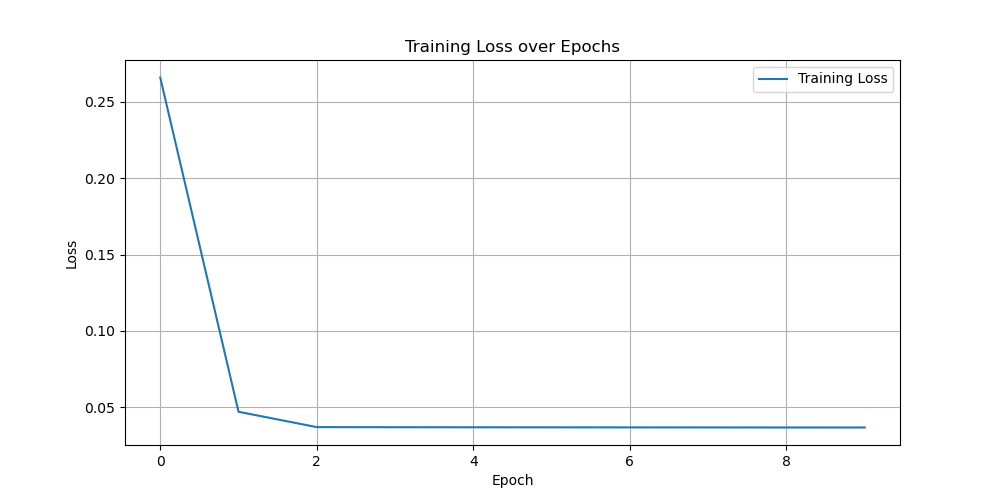
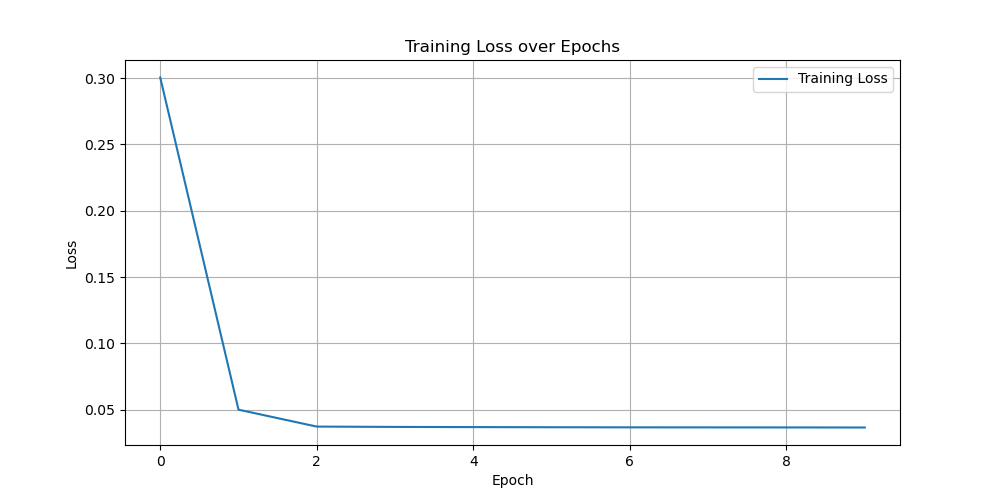
训练和预测分离，并输出权重文件

diff --git a/src/predict.py b/src/predict.py
@@ -1,35 +1,30 @@
 import torch
 from datetime import datetime, timedelta
-from src.data.data_loader import load_data, get_data_loader
+from src.data.data_loader import load_data
 from src.model.attention_lstm import AttentionLSTM
-from src.train.train import train_model
-from src.visualization.visualize import plot_training_loss, plot_prediction
+from src.visualization.visualize import plot_prediction
 from src.config import config
-
 
 def main():
     device = torch.device('cuda' if torch.cuda.is_available() else 'cpu')
     print(f'Using device: {device}')
 
     dataset = load_data(config['file_path'], config['sequence_length'])
-    dataloader = get_data_loader(dataset, config['batch_size'])
 
     model = AttentionLSTM(config['input_size'], config['hidden_size'], config['output_size'], config['num_layers'])
     model.to(device)
 
-    losses = train_model(model, dataloader, config['num_epochs'], config['learning_rate'], device)
-
-    # 可视化训练损失
-    plot_training_loss(losses)
+    # 加载模型权重
+    model.load_state_dict(torch.load('model_weights.pth', map_location=device))
+    model.eval()
 
     # 预测2024年6月18日下午5点的温度
     prediction_date = datetime(2024, 6, 18, 17, 0)
     input_data = dataset.data.iloc[-config['sequence_length']:].values  # 取最后一段数据作为输入
-    input_data_tensor = torch.tensor(input_data, dtype=torch.float32).unsqueeze(0).to(device)  # 将数据移动到GPU
+    input_data_tensor = torch.tensor(input_data, dtype=torch.float32).to(device).unsqueeze(0)
 
-    model.eval()
     with torch.no_grad():
-        predicted_temp = model(input_data_tensor.unsqueeze(0)).item()
+        predicted_temp = model(input_data_tensor).item()
 
     print(f"Predicted temperature at {prediction_date} is {predicted_temp:.2f}°C")
 
@@ -40,7 +35,6 @@ def main():
     predicted_temps = [predicted_temp] * config['sequence_length']
 
     plot_prediction(dates, actual_temps, predicted_temps)
-
 
 if __name__ == '__main__':
     main()

diff --git a/src/training.py b/src/training.py
@@ -1,0 +1,28 @@
+import torch
+from src.data.data_loader import load_data, get_data_loader
+from src.model.attention_lstm import AttentionLSTM
+from src.train.train import train_model
+from src.visualization.visualize import plot_training_loss
+from src.config import config
+
+def main():
+    device = torch.device('cuda' if torch.cuda.is_available() else 'cpu')
+    print(f'Using device: {device}')
+
+    dataset = load_data(config['file_path'], config['sequence_length'])
+    dataloader = get_data_loader(dataset, config['batch_size'])
+
+    model = AttentionLSTM(config['input_size'], config['hidden_size'], config['output_size'], config['num_layers'])
+    model.to(device)
+
+    losses = train_model(model, dataloader, config['num_epochs'], config['learning_rate'], device)
+
+    # 可视化训练损失
+    plot_training_loss(losses)
+
+    # 保存模型权重
+    torch.save(model.state_dict(), 'model_weights.pth')
+    print("Model weights saved to 'model_weights.pth'")
+
+if __name__ == '__main__':
+    main()
